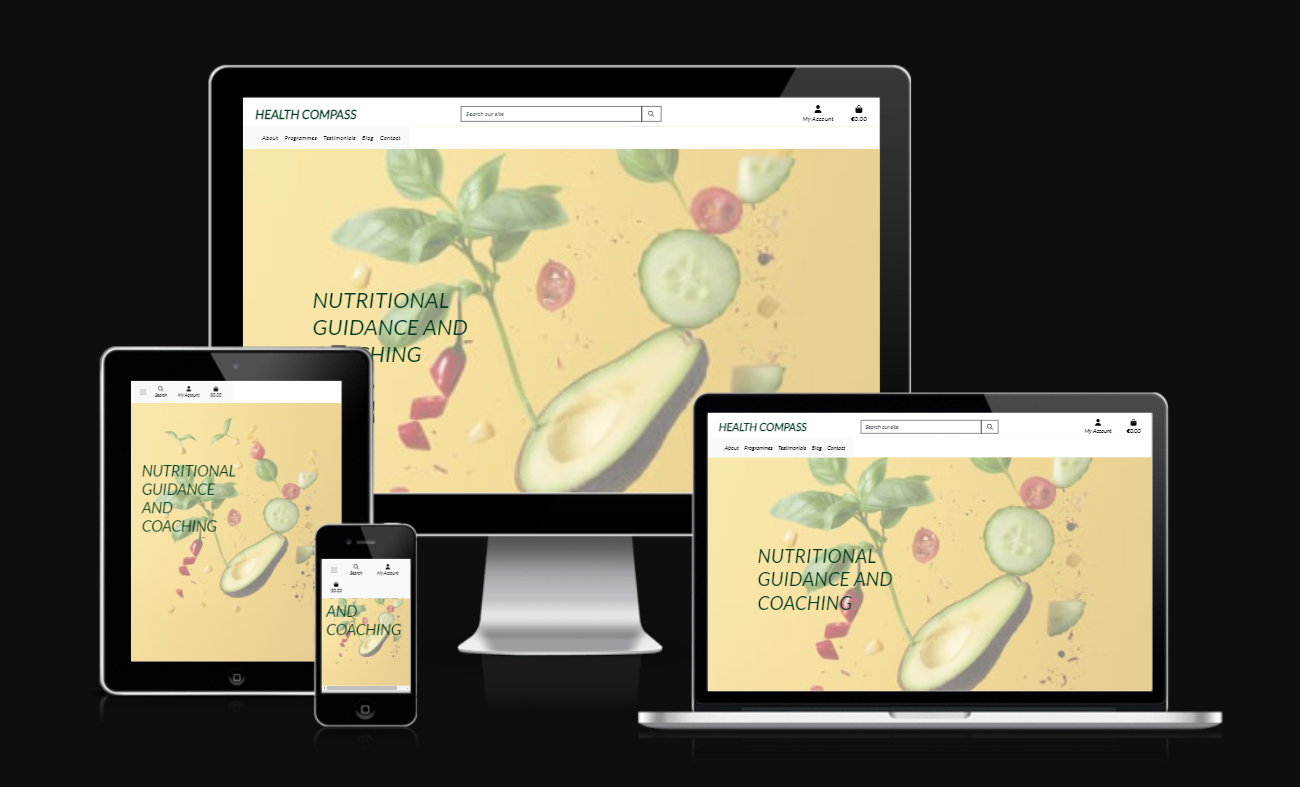
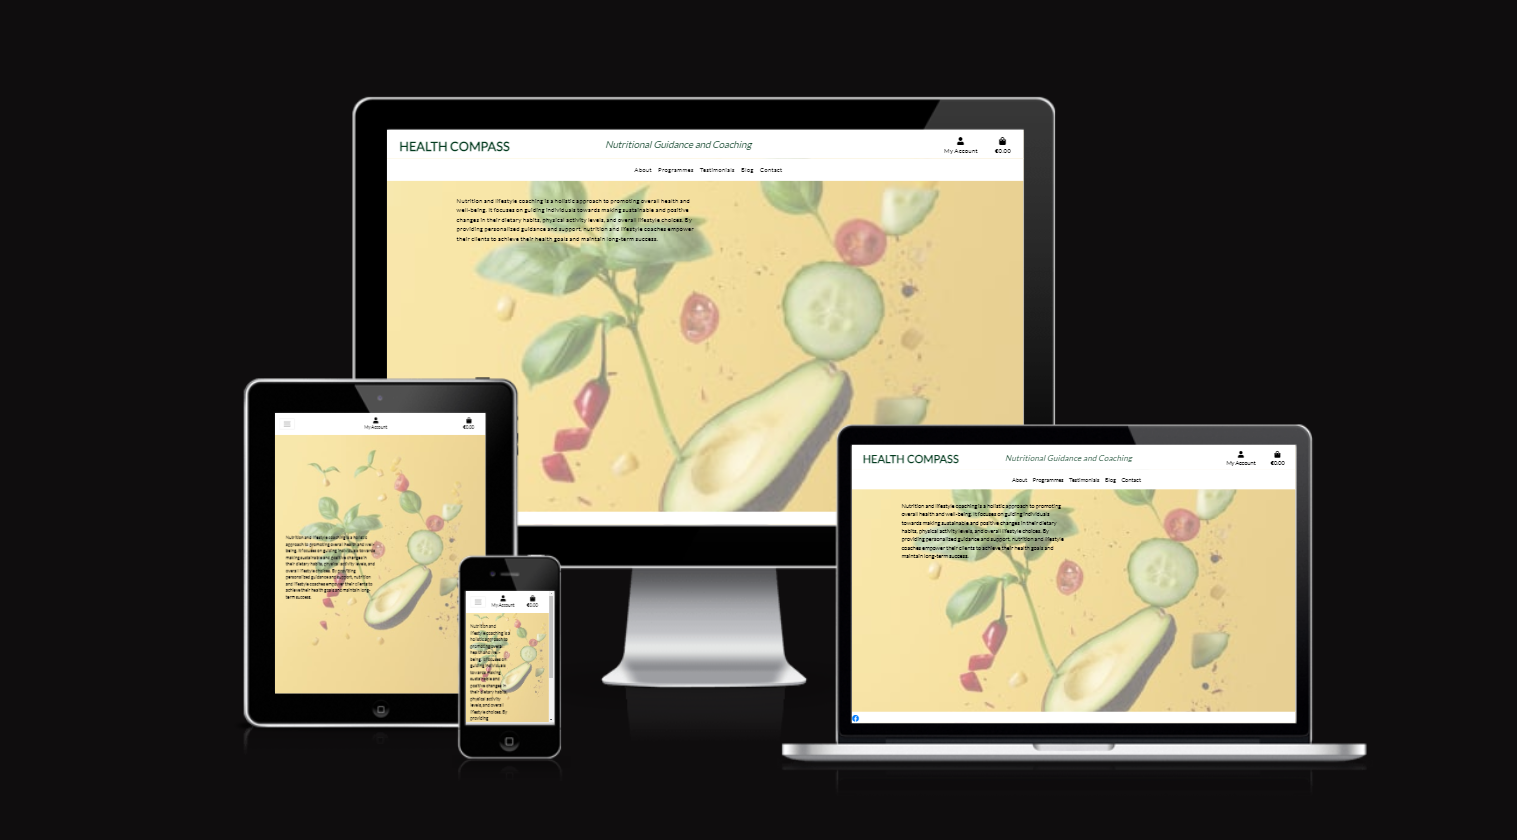
Add to README. Tidy code.

diff --git a/checkout/templates/checkout/checkout.html b/checkout/templates/checkout/checkout.html
@@ -39,17 +39,10 @@
                 {% for item in bag_items %}
                     <div class="row">
                         <div class="col-2 mb-1">
-                            <a href="{% url 'programme_detail' item.product.id %}">
-                                <!-- {% if item.product.image %}
-                                    <img class="w-100" src="{{ item.product.image.url }}" alt="{{ product.name }}">
-                                {% else %}
-                                    <img class="w-100" src="{{ MEDIA_URL }}noimage.png" alt="{{ product.name }}">
-                                {% endif %} -->
-                            </a>
+                            <a href="{% url 'programme_detail' item.product.id %}"></a>
                         </div>
                         <div class="col-7">
                             <p class="my-0"><strong>{{ item.product.name }}</strong></p>
-                            <!-- <p class="my-0 small">Size: {% if item.product.has_sizes %}{{ item.size|upper }}{% else %}N/A{% endif %}</p> -->
                             <p class="my-0 small text-muted">Qty: {{ item.quantity }}</p>
                         </div>
                         <div class="col-3 text-right">
@@ -61,13 +54,9 @@
                 <div class="row text-black text-right">
                     <div class="col-7 offset-2">
                         <p class="my-0">Order Total:</p>
-                        <!-- <p class="my-0">Delivery:</p>
-                        <p class="my-0">Grand Total:</p> -->
                     </div>
                     <div class="col-3">
                         <p class="my-0">€{{ total | floatformat:2 }}</p>
-                        <!-- <p class="my-0">€{{ delivery | floatformat:2 }}</p>
-                        <p class="my-0"><strong>€{{ grand_total | floatformat:2 }}</strong></p> -->
                     </div>
                 </div>
             </div>
@@ -83,12 +72,6 @@
                         {{ order_form.country | as_crispy_field }}
                     </fieldset>
                     <fieldset class="rounded px-3 mb-5">
-                        <!-- <legend class="fieldset-label small text-black px-2 w-auto">Delivery</legend>
-                        {{ order_form.postcode | as_crispy_field }}
-                        {{ order_form.town_or_city | as_crispy_field }}
-                        {{ order_form.street_address1 | as_crispy_field }}
-                        {{ order_form.street_address2 | as_crispy_field }}
-                        {{ order_form.county | as_crispy_field }} -->
                         <div class="form-check form-check-inline float-right mr-0">
 							{% if user.is_authenticated %}
 								<label class="form-check-label" for="id-save-info">Save this information to my profile</label>

diff --git a/static/css/base.css b/static/css/base.css
@@ -5,7 +5,6 @@ html {
 body {
     background: url('/media/background.5_image.webp') no-repeat center center fixed;
     background-size: cover;
-    /* height: 100%; */
     color: #023a1e;
     font-family: 'Lato';
 }
@@ -95,10 +94,6 @@ p {
     cursor: pointer;
 }
 
-/* #sign_in {
-    margin-top: 15%;
-} */
-
 
 /* -------------------------------- Media Queries */
 
@@ -130,10 +125,6 @@ p {
         padding-top: 116px;
     }
 
-    body {
-        height: calc(100vh - 116px);
-    }
-
     /* full overlay on mobile view */
     .overlay {
         height: 100%;
@@ -145,7 +136,36 @@ p {
         z-index: -1;
     }
 
-    /* #sign_in {
-        margin-top: 25%;
-    } */
+    .display-4.logo-font.text-black {
+        font-size: 2rem;
+    }
+
+    .nav-link {
+        padding: 0.15rem;
+    }
+
+    .nav-link i.fa-lg {
+        font-size: 1rem;
+    }
+
+    .navbar-toggler {
+        padding: .6rem .6rem;
+        font-size: 1rem;
+    }
+
+    .btn.btn-outline-black.rounded-0,
+    .btn.btn-black.rounded-0 {
+        padding: .375rem .375rem;
+    }
+
+    .btn.btn-outline-black.rounded-0.btn-lg,
+    .btn.btn-black.rounded-0.btn-lg {
+        padding: .375rem .375rem;
+        font-size: .75rem;
+    }
+
+    .increment-qty, .decrement-qty {
+        padding: .25rem .5rem !important;
+    }
+
 }

diff --git a/templates/base.html b/templates/base.html
@@ -43,11 +43,7 @@
                     </a>
                 </div>
                 <div class="col-12 col-lg-4 my-auto py-1 py-lg-0">
-                    <!-- <form method="GET" action="{% url 'programmes' %}">
-                        <div> -->
-                            <h4 class="logo-font-sm font-italic">Nutritional Guidance and Coaching</h4>
-                        <!-- </div>
-                    </form> -->
+                    <h4 class="logo-font-sm font-italic">Nutritional Guidance and Coaching</h4>
                 </div>
                 <div class="col-12 col-lg-4 my-auto py-1 py-lg-0">
                     <ul class="list-inline list-unstyled text-center text-lg-right my-0">

diff --git a/checkout/models.py b/checkout/models.py
@@ -33,11 +33,6 @@ class Order(models.Model):
         accounting for delivery costs.
         """
         self.order_total = self.lineitems.aggregate(Sum('lineitem_total'))['lineitem_total__sum']
-        # if self.order_total < settings.FREE_DELIVERY_THRESHOLD:
-        #     self.delivery_cost = self.order_total * settings.STANDARD_DELIVERY_PERCENTAGE / 100
-        # else:
-        #     self.delivery_cost = 0
-        # self.grand_total = self.order_total + self.delivery_cost
         self.save()
 
     def save(self, *args, **kwargs):

diff --git a/README.md b/README.md
@@ -1,13 +1,66 @@
 # Health Compass
 
-![Responsive screenshot](readme-images/multi-screens.png)
-
 ## A Nutrion and Lifestyle Coaching Site
->A site to purchase nutrition and coaching programmes, as well as blog content and testimonials to share help and advice.
+>A site to purchase nutrition and coaching programmes. As well as blog content and testimonials to share help and advice.
+
+![Responsive screenshot](readme-images/multi-screens.png)
 
 ## [Live site](https://health-compass.herokuapp.com/) | [Repository](https://github.com/MichelleCorrigan/health-compass)
 
 ---
+
+## Contents
+* [Design](#design)
+  * [Wireframes](#wireframes)
+  * [Images](#images)
+* [Technologies Used](#technologies-used)
+* [Deployment](#deployment)
+* [Testing](#testing)
+* [Bugs](#bugs)
+* [Credits](#credits)
+* [Features to implement in the future](#features-to-implement-in-the-future)
+---
+
+## Design
+
+### Wireframes
+
+<details>
+
+ <summary>Home Page</summary>
+
+ ![Home Page](readme-images/wireframe-home.png)
+
+</details>
+
+### Images
+
+A background image of various fruit and vegetables scattered on a yellow background, rendered to 50% transparency, was used across the site.
+
+<details>
+ <summary>Background Image</summary>
+
+![Background Image](readme-images/background.5_image.webp)
+
+</details>
+
+---
+
+## Technologies Used
+
+- HTML
+- CSS
+- JavaScript
+- Python
+- Django
+
+- ElephantSQL
+- Heroku
+- Git
+- Github
+
+---
+
 ## Deployment
 
 ### Create an external database
@@ -74,8 +127,42 @@ Click on open app at the top of the page to view your deployed app
 
 ---
 
+## Testing
+
+- Testing will be completed on the finished site.
+
+---
 
 ## Bugs
-- My Account dropdown menu doesn't function.
-- Once deployed, links to the Programmes page and Programme details page became tempermental. 
-- These will be fixed before resubmission.
+
+- Once deployed, the link to the Programmes page was missing content. After receiving help on Slack, I realised there was no data in the admin panel of production. Once the data was added the page functioned as expected.
+- The buttons on the Programmes_details page that were working to begin with, stopped functioning. After multiple troubleshooting attempts, I got help from tutor support, who found that the issue was with the body-height set in css. After deleting this, the buttons are functioning again.
+
+---
+
+## Credits
+
+- Code Institute student template: [gitpod full template](https://github.com/Code-Institute-Org/gitpod-full-template)
+- Code Institutes syllabus
+- ChatGPT, for paragraph about nutrition on About page
+- Pexels for background image [background image](https://res.cloudinary.com/dqouzgyjm/image/upload/v1680110719/pexels-jj-jordan-7865977_cvtugr.jpg)
+
+- References used:
+
+  - Stack Overflow
+  - Slack
+  - Bootstrap
+  - Django Docs
+  - Cripsy Forms Docs
+
+---
+
+## Features to implement in the future
+
+- Implement Stripe
+- Personalized User Profile
+- Newsletter Signup Form
+- Testimonials page
+- Blog App and page
+- Contact page
+- Employ SEO techniques
